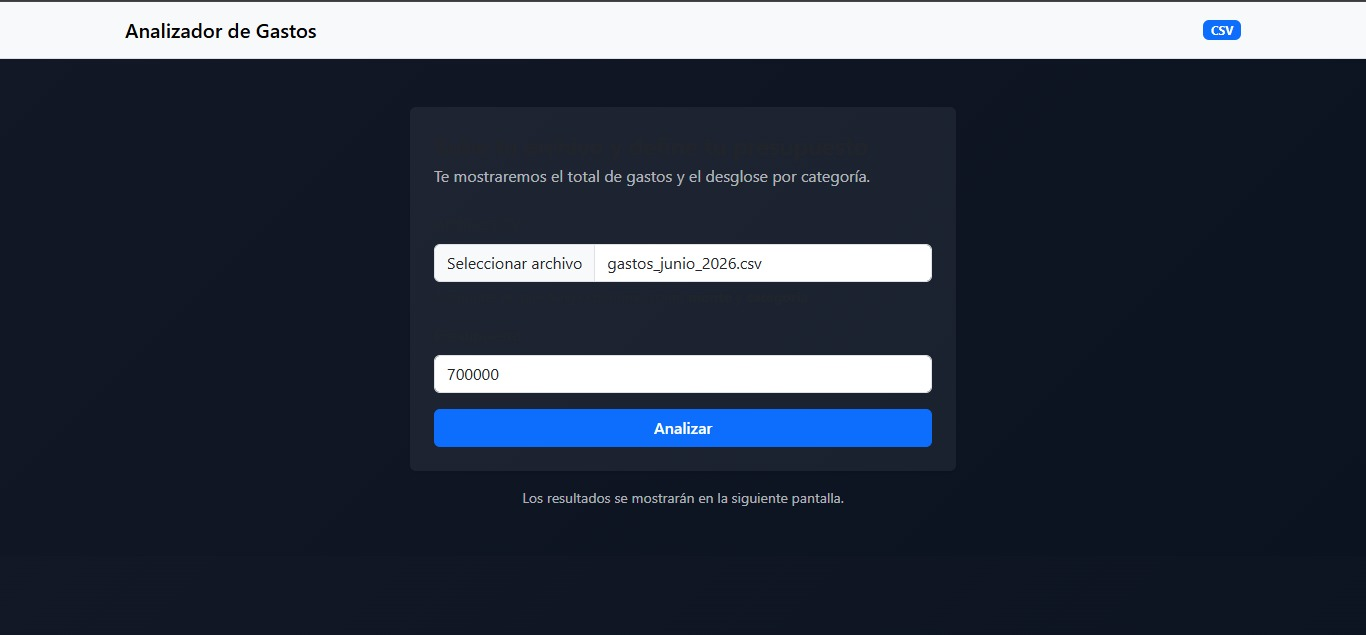
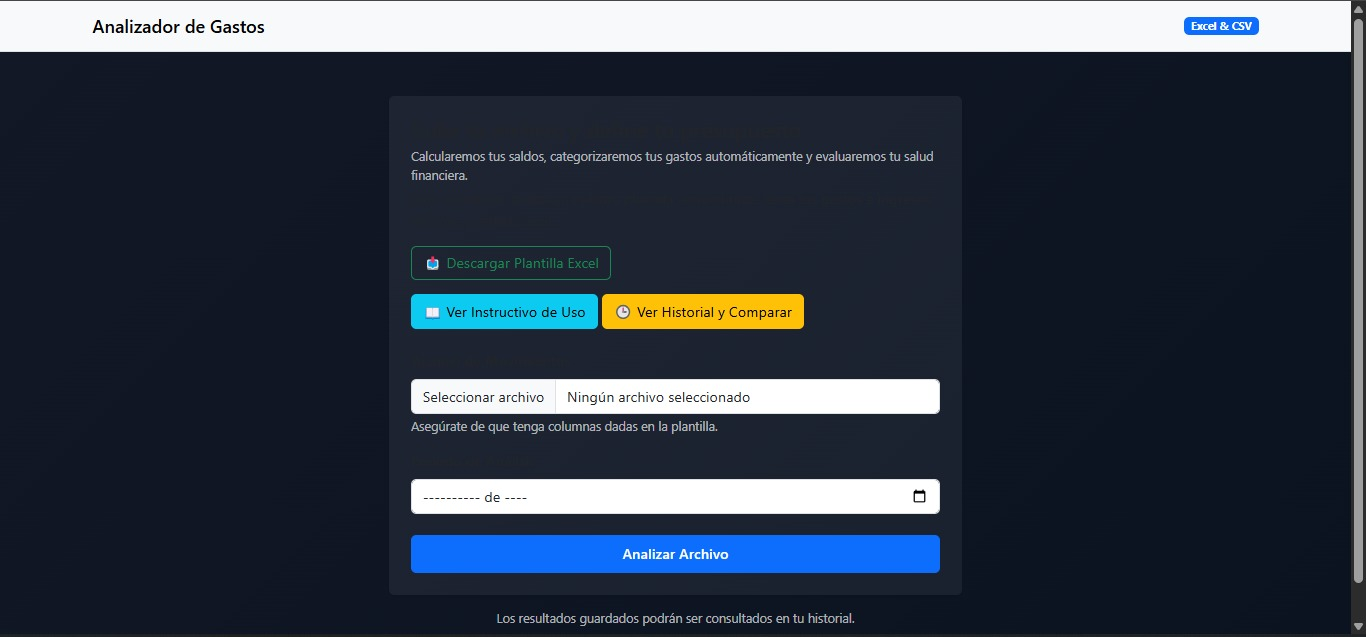
Se le añaden nuevas imagenes a images y se añaden al README igualmente

diff --git a/README.md b/README.md
@@ -144,7 +144,7 @@ source venv/bin/activate
 ## 3. Instalar dependencias
 
 ```bash
-pip install requirements
+pip install requirements.txt
 ```
 
 ---
@@ -177,11 +177,7 @@ También encontrará un acceso directo al instructivo, donde se especifica el fo
 
 ## Vista
 
-<!-- ============================ -->
-<!-- INSERTAR IMAGEN AQUÍ -->
-<!-- Página de Inicio -->
-<!-- static/screenshots/inicio.png -->
-<!-- ============================ -->
+![Página de Inicio](/images/inicio.jpg)
 
 ---
 
@@ -198,11 +194,7 @@ Este formato garantiza que Pandas pueda interpretar correctamente la informació
 
 ## Vista
 
-<!-- ============================ -->
-<!-- INSERTAR IMAGEN AQUÍ -->
-<!-- Instructivo -->
-<!-- static/screenshots/instructivo.png -->
-<!-- ============================ -->
+![Instructivo](/images/instructivo.jpg)
 
 ---
 
@@ -221,11 +213,7 @@ Al subir el archivo, Pandas realiza:
 
 ## Vista
 
-<!-- ============================ -->
-<!-- INSERTAR IMAGEN AQUÍ -->
-<!-- Esquema Excel Agosto -->
-<!-- static/screenshots/esquema_agosto.png -->
-<!-- ============================ -->
+![Excel de Agosto](/images/Excel_Agosto.jpg)
 
 ---
 
@@ -245,11 +233,7 @@ El sistema informa al usuario que necesita un tercer periodo para habilitar dich
 
 ## Vista
 
-<!-- ============================ -->
-<!-- INSERTAR IMAGEN AQUÍ -->
-<!-- Resultados Agosto -->
-<!-- static/screenshots/dashboard_agosto.png -->
-<!-- ============================ -->
+![Resultados de Agosto](/images/Resultados_Agosto.jpg)
 
 ---
 
@@ -269,11 +253,7 @@ Todo el PDF es generado dinámicamente mediante ReportLab.
 
 ## Vista
 
-<!-- ============================ -->
-<!-- INSERTAR IMAGEN AQUÍ -->
-<!-- Documento PDF -->
-<!-- static/screenshots/pdf.png -->
-<!-- ============================ -->
+![PDF descargable](/images/PDF_descargado.jpg)
 
 ---
 
@@ -304,19 +284,7 @@ Los resultados se presentan mediante colores condicionales:
 
 ## Vista
 
-<!-- ============================ -->
-<!-- INSERTAR IMAGEN AQUÍ -->
-<!-- Historial -->
-<!-- static/screenshots/historial.png -->
-<!-- ============================ -->
-
-<br>
-
-<!-- ============================ -->
-<!-- INSERTAR IMAGEN AQUÍ -->
-<!-- Comparación Julio Agosto -->
-<!-- static/screenshots/comparacion.png -->
-<!-- ============================ -->
+![Historial y Comparacion](/images/Historial_Comparacion.jpg)
 
 ---
 
@@ -336,11 +304,7 @@ La predicción se basa exclusivamente en el comportamiento histórico almacenado
 
 ## Vista
 
-<!-- ============================ -->
-<!-- INSERTAR IMAGEN AQUÍ -->
-<!-- Dashboard Septiembre -->
-<!-- static/screenshots/dashboard_septiembre.png -->
-<!-- ============================ -->
+![Resultados Septiembre](/images/Resultado_Septiembre.jpg)
 
 ---
 